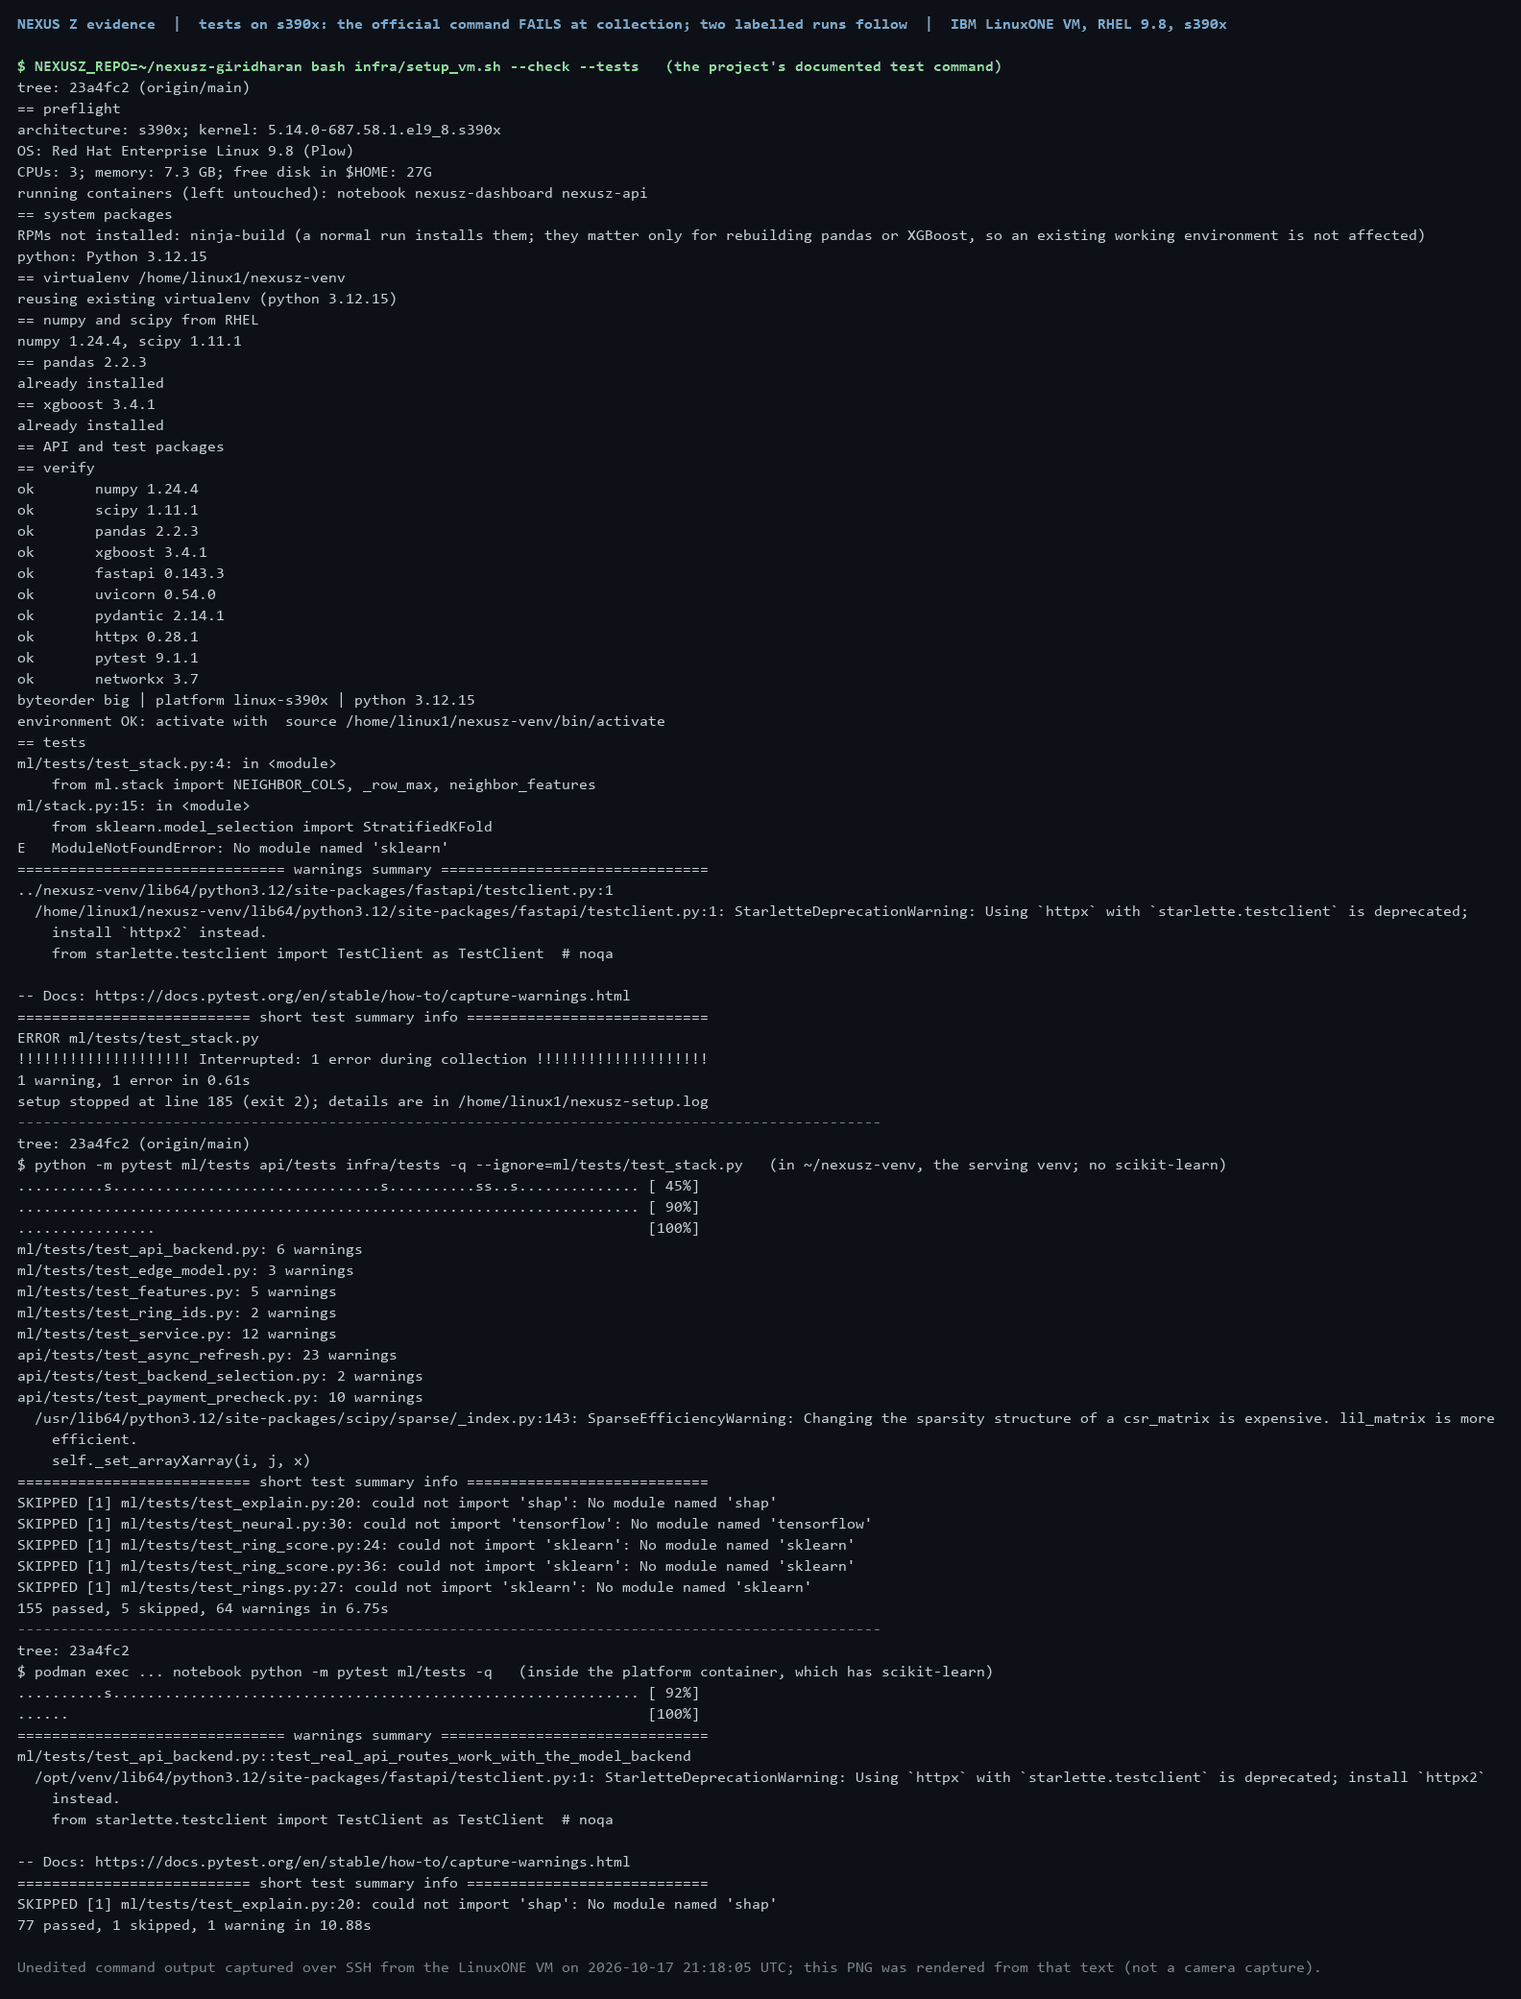
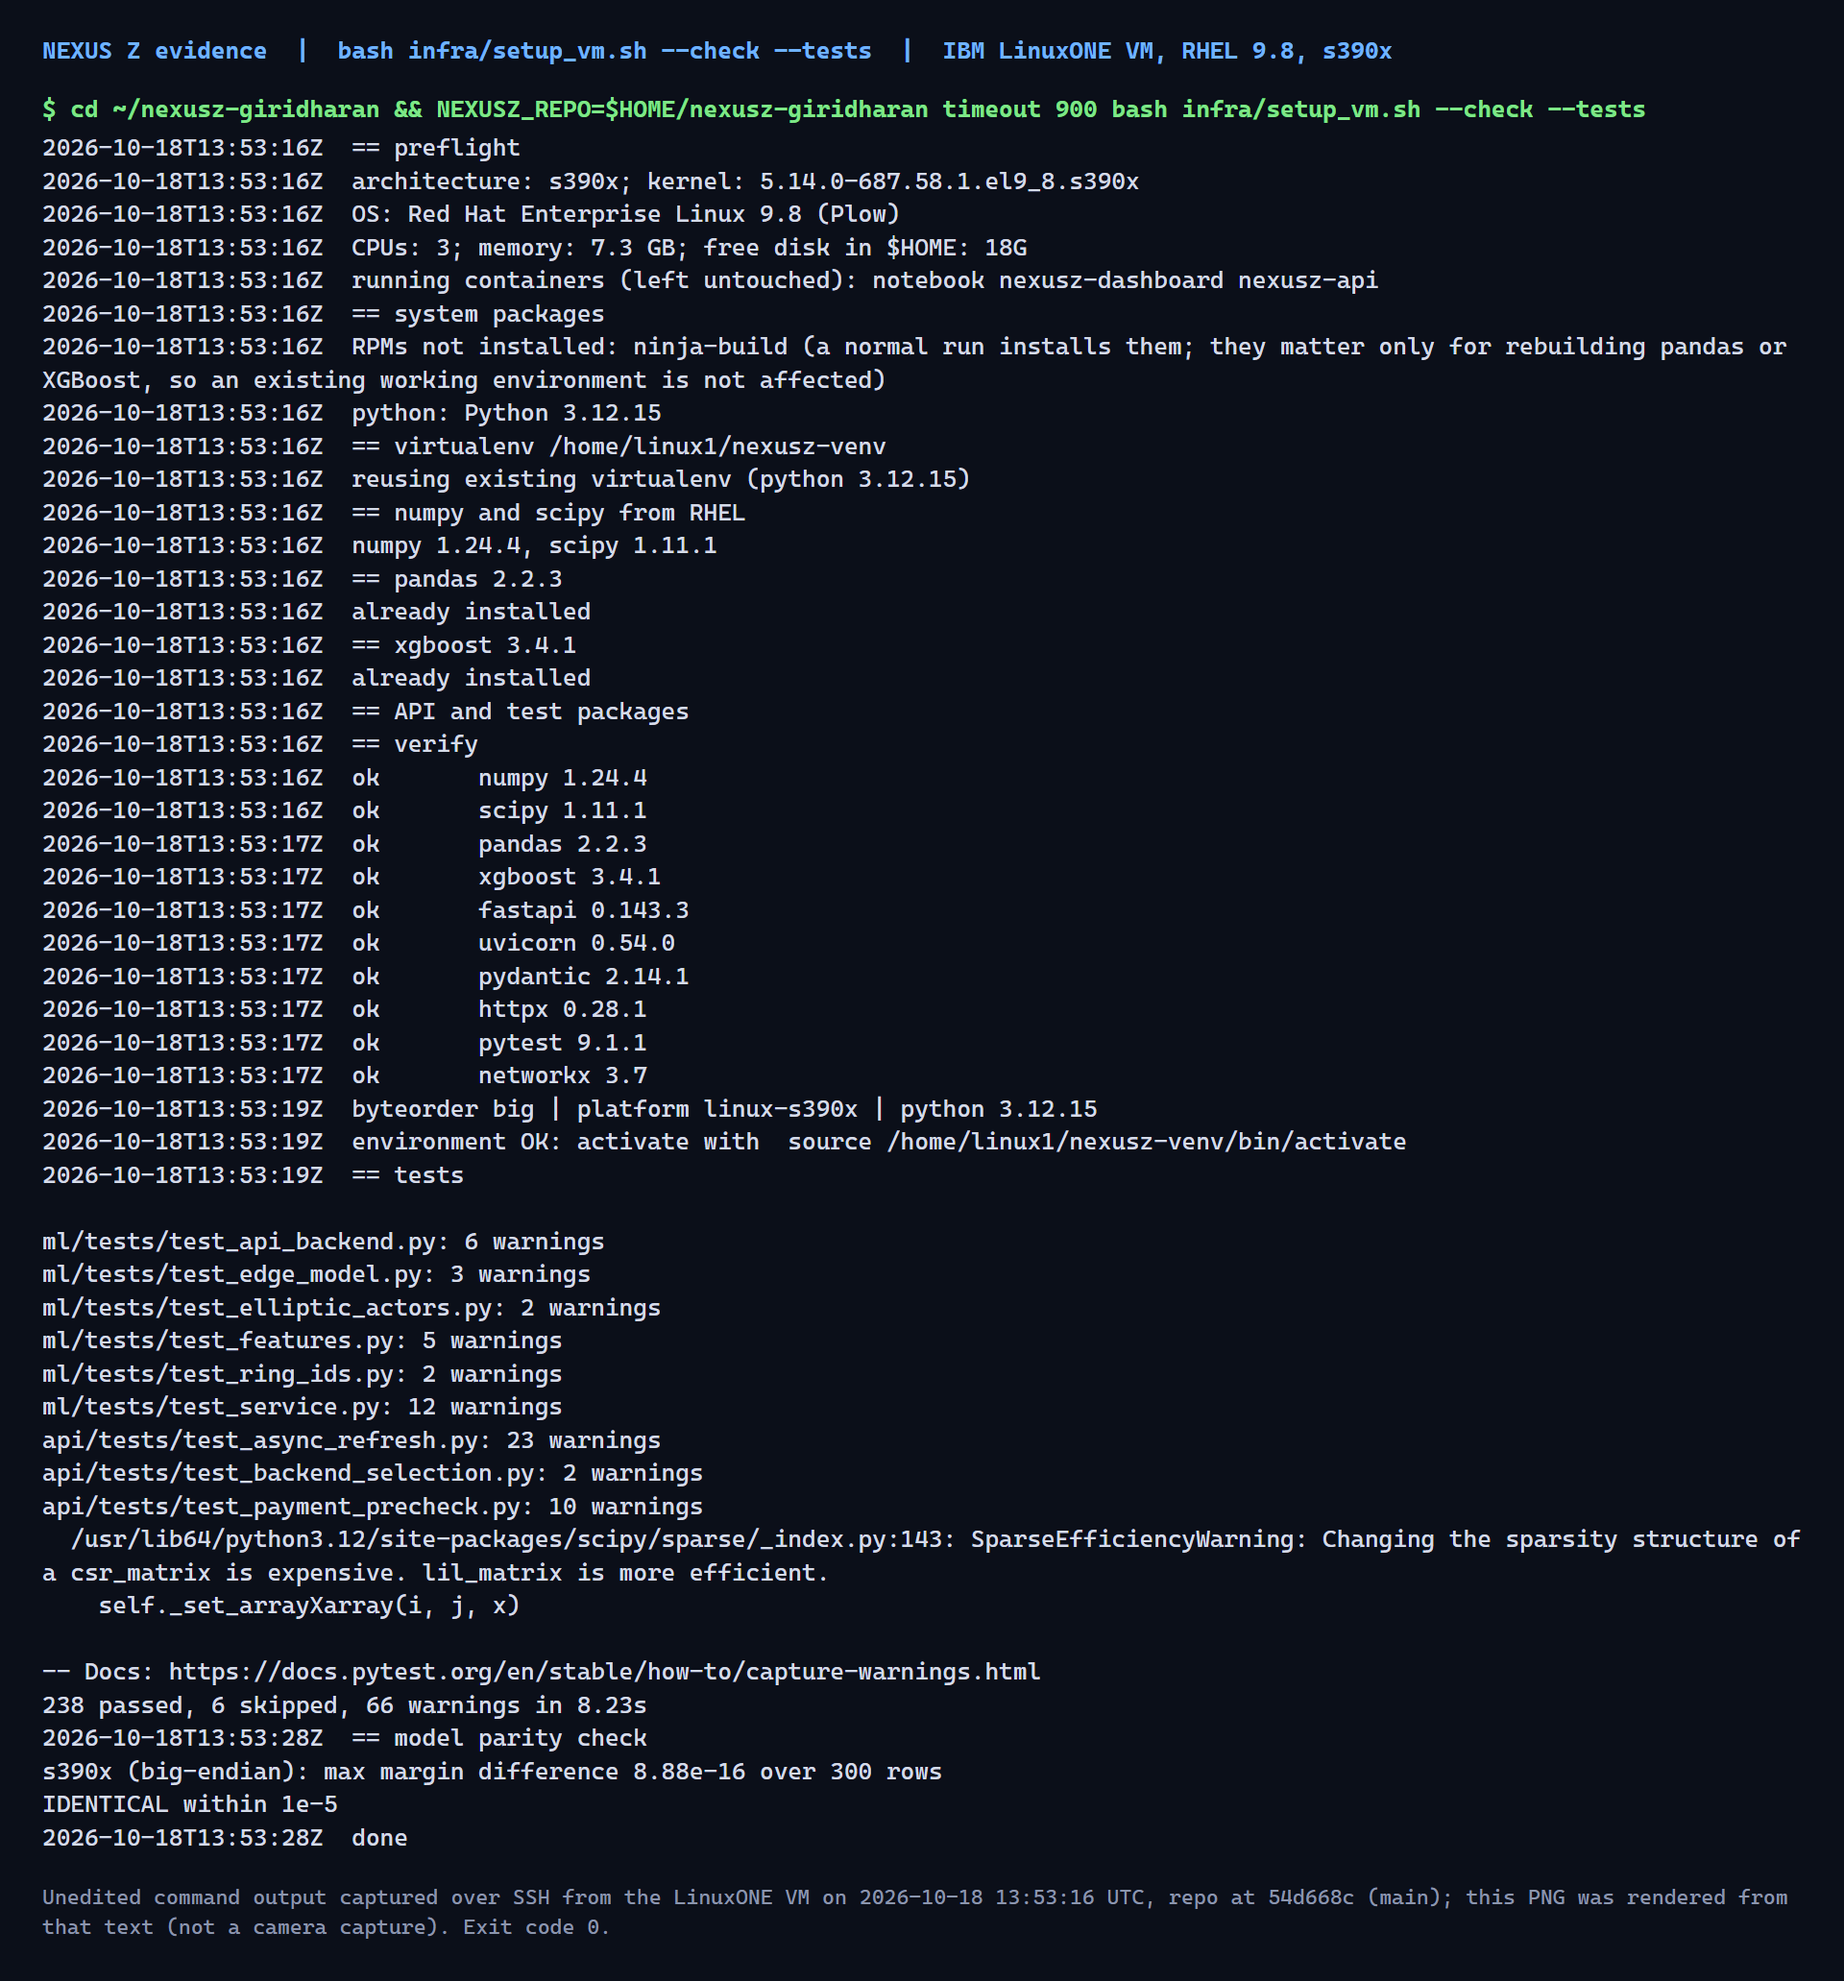
Evidence: tests passing on the VM (04) and accelerator counters (10)
04 now shows `bash infra/setup_vm.sh --check --tests` passing on main at 54d668c:
238 passed, 6 skipped, exit code 0, then the parity check (8.88e-16). It replaces
the image that showed the scikit-learn collection failure fixed by PR #40.

10 is new: the processor's NNPA counters from `bash infra/accel_counters.sh`.
Trees 0 / 0 / 0, the network 4,219 / 471 / 157, Granite 36,112 / 6,160 / 0, taken on an
idle VM (load 0.00). accelerator_counters.txt replaced with this run's output; the
numbers differ a little from the earlier run, as expected.

README rows 04 and 10 and the two notes that said "04 fails" and "10 is missing"
are updated. Both PNGs are renders of the unedited captured output, as the README
already says for the others.

diff --git a/docs/evidence/README.md b/docs/evidence/README.md
@@ -1,6 +1,6 @@
 # Evidence from the LinuxONE VM
 
-Captured on **2026-10-17 at 21:18 to 21:19 UTC (2026-10-18, about 02:48 IST)** from the datathon VM (IBM LinuxONE, RHEL 9.8, s390x, 3 vCPUs) over SSH, by Giridharan's session. Times in the images are the VM's own clock.
+Captured on **2026-10-17 at 21:18 to 21:19 UTC (2026-10-18, about 02:48 IST)** from the datathon VM (IBM LinuxONE, RHEL 9.8, s390x, 3 vCPUs) over SSH, by Giridharan's session. Times in the images are the VM's own clock. Images `04` and `10` were captured later, on **2026-10-18 at 13:52 to 13:53 UTC**, the same way (see their rows).
 
 **How the images were made, read this first.** The capture tool was a command line, not a screen recorder, so these PNGs are **renders of the unedited command output**: the text was copied as the SSH session returned it and drawn into an image (header line, command, output, a footer that says so). Nothing in the output text was edited. Two display changes only: lines longer than 175 characters are wrapped, and in image 06 the `edges` list of the ring is replaced by a count and the member list is cut to six (the command line printed in the image says so). If the judges or the team want pixel screenshots of a live terminal, run the same commands and screenshot them; the commands are below.
 
@@ -11,18 +11,18 @@ No address, key or token appears in any image (only loopback addresses). The Jup
 | `01_jupyter_container.png` | The platform's Jupyter Lab ML container (`notebook`) running under rootless Podman, next to the API and dashboard containers | `podman ps` |
 | `02_loopback_only.png` | Jupyter (38888), the API (8000) and the dashboard (3000) listen on `127.0.0.1` only. The only other listener is SSH on port 22, which is how the VM is reached | `ss -ltn` |
 | `03_default_token_403.png` | The platform's published default token is rejected: prints `403` | `curl -s -o /dev/null -w "%{http_code}\n" "http://127.0.0.1:38888/api/status?token=Your_Token1"` |
-| `04_tests_on_vm.png` | **The documented test command fails on the VM at collection** (see below), followed by two labelled runs | `bash infra/setup_vm.sh --check --tests`; then `python -m pytest ml/tests api/tests infra/tests -q --ignore=ml/tests/test_stack.py` in `~/nexusz-venv`; then `python -m pytest ml/tests -q` inside the `notebook` container |
+| `04_tests_on_vm.png` | **The documented test command passes on the VM**: `238 passed, 6 skipped`, exit code 0, then the model parity check (largest difference 8.88e-16 over 300 rows, identical within 1e-5). It replaces the earlier image, which showed the same command failing at collection on scikit-learn; `main` now includes the fix (PR #40). The 6 skips were not investigated | `NEXUSZ_REPO=$HOME/nexusz-giridharan timeout 900 bash infra/setup_vm.sh --check --tests`, run on `main` at `54d668c` on 2026-10-18 at 13:53 UTC. It was run against a separate checkout so that nothing was written into `~/Nexus-Z` |
 | `05_api_running.png` | The API container is up and `/health` reports `"backend":"model"` (656,743 rows of history, last rebuild 12.4 s) | `bash infra/podman_api.sh status` |
 | `06_rings_and_reasons.png` | The ring list and one ring with members (estimated roles), reasons (some marked "(absent)"), and the case summary | `curl -s http://127.0.0.1:8000/rings`, then `curl -s http://127.0.0.1:8000/rings/RNG-3E0A24` (an id from that list) |
 | `07_bench_result.png` | The idle-VM benchmark tables of `docs/PLATFORM_RESULTS.md` section 3b, read from the file on the VM at commit `23a4fc2`. **Not re-run** | `sed -n '144p;148,154p;158,167p' docs/PLATFORM_RESULTS.md` |
 | `08_training_log.png` | The saved training log: 57-feature payment model, account model 374 trees, payment model 358 trees, `exit 0 after 882 s` | `cat ~/shared/logs/bundle_final.log` |
 | `09_container_security.png` | The API container is locked down: loopback only, non-root (uid 1000), read-only root filesystem and mounts, `CapEff` all zeros, no new privileges, seccomp, 5 GB memory limit, writes refused except `/tmp` | `bash infra/podman_api.sh check` |
-| `10_accelerator_counters.png` | **Not captured yet** (see below) | `bash infra/accel_counters.sh` |
+| `10_accelerator_counters.png` | The processor's NNPA counters (ALL / MATMUL_OP / SIGMOID) for three workloads: **XGBoost trees 0 / 0 / 0**, a TensorFlow network 4,219 / 471 / 157, IBM Granite 4.0 350M base 36,112 / 6,160 / 0. Captured 2026-10-18 at 13:52:36 UTC (printed in the image), VM load average 0.00 before the run. Raw output: `accelerator_counters.txt`. This shows that some operations of the network and of Granite ran on the accelerator and none of the trees; it does not show that NEXUS Z detection uses it, and it is not a speed-up measurement | `cd ~/Nexus-Z && bash infra/accel_counters.sh` |
 
 ## Things that do not match, or were not done
 
-1. **`04`: the documented test command fails on the VM.** `bash infra/setup_vm.sh --check --tests` stops with `ERROR ml/tests/test_stack.py` : `ModuleNotFoundError: No module named 'sklearn'` (`ml/stack.py` line 15 imports `sklearn.model_selection`). The serving venv `~/nexusz-venv` deliberately has no scikit-learn, and `ml/tests/test_stack.py` is new since the last VM test run (then 102 passed, 4 skipped). Nothing was changed to hide it. Two additional runs, both on `origin/main` at `23a4fc2`: **in the serving venv with only `test_stack.py` excluded: 155 passed, 5 skipped, 0 failed**; **inside the platform container (which has scikit-learn) `ml/tests`: 77 passed, 1 skipped** (the skip is SHAP). The proper fix belongs to the ML side (for example `pytest.importorskip("sklearn")` at the top of `ml/tests/test_stack.py`); it is for Ramana to decide and has not been edited here (the PR description carries the details for him).
+1. **`04` (resolved on 2026-10-18).** The first version of this image showed `bash infra/setup_vm.sh --check --tests` stopping with `ModuleNotFoundError: No module named 'sklearn'` (`ml/stack.py` imported `sklearn` at the top, and the serving venv `~/nexusz-venv` deliberately has none). PR #40 made that import lazy. The new image is the same command on `main` at `54d668c`: `238 passed, 6 skipped`, exit code 0. The earlier runs (155 passed, 5 skipped in the serving venv with `test_stack.py` excluded; 77 passed, 1 skipped inside the container) are in the git history of this file and are no longer needed.
 2. **`05`:** the API container was already running (started by Ramana about 15 minutes before the capture). It was not started, restarted or stopped by this session. `refreshes_completed` is 0 because no replay was running.
-3. **`10` is missing.** `infra/accel_counters.sh` needs the VM to be otherwise idle for about 3 minutes, runs `perf` with `sudo` and three workloads (a TensorFlow network, Granite, XGBoost) inside the `notebook` container, and was not run without Ramana's go-ahead. The numbers it should reproduce are in `docs/ML_RESULTS.md` section 8 and were not edited.
+3. **`10` (captured on 2026-10-18).** The run needs the VM to be otherwise idle. When it was started another session was running a 45-second replay on the shared account, so the run waited until that replay had ended and the VM showed 99.8% idle and load 0.00; no replay ran during the measurement (checked before and after). The counts are close to, but not identical with, the run in `docs/ML_RESULTS.md` section 8 (dense ALL 4,219 now against 6,504 in the earlier run, Granite 36,112 against 36,368, trees 0 in both), so they vary from run to run: quote them as *zero for trees, thousands for the network, tens of thousands for Granite*, not as exact figures. `accelerator_counters.txt` now holds this run's output. `docs/ML_RESULTS.md` was not edited.
 4. **Freshness wording:** the task file says "about 12 seconds on the idle VM". `docs/PLATFORM_RESULTS.md` has 12.27 to 12.61 s for the bare process (3b) and 9.63 to 9.91 s for the final container (3c). The video script says "about ten to twelve seconds", which both support.
 5. `09` lists eleven capability names under "dropped capabilities"; the script starts the container with all capabilities dropped. The check that matters is the effective mask read from inside the container, `CapEff: 0000000000000000`, which shows no capability is granted.
